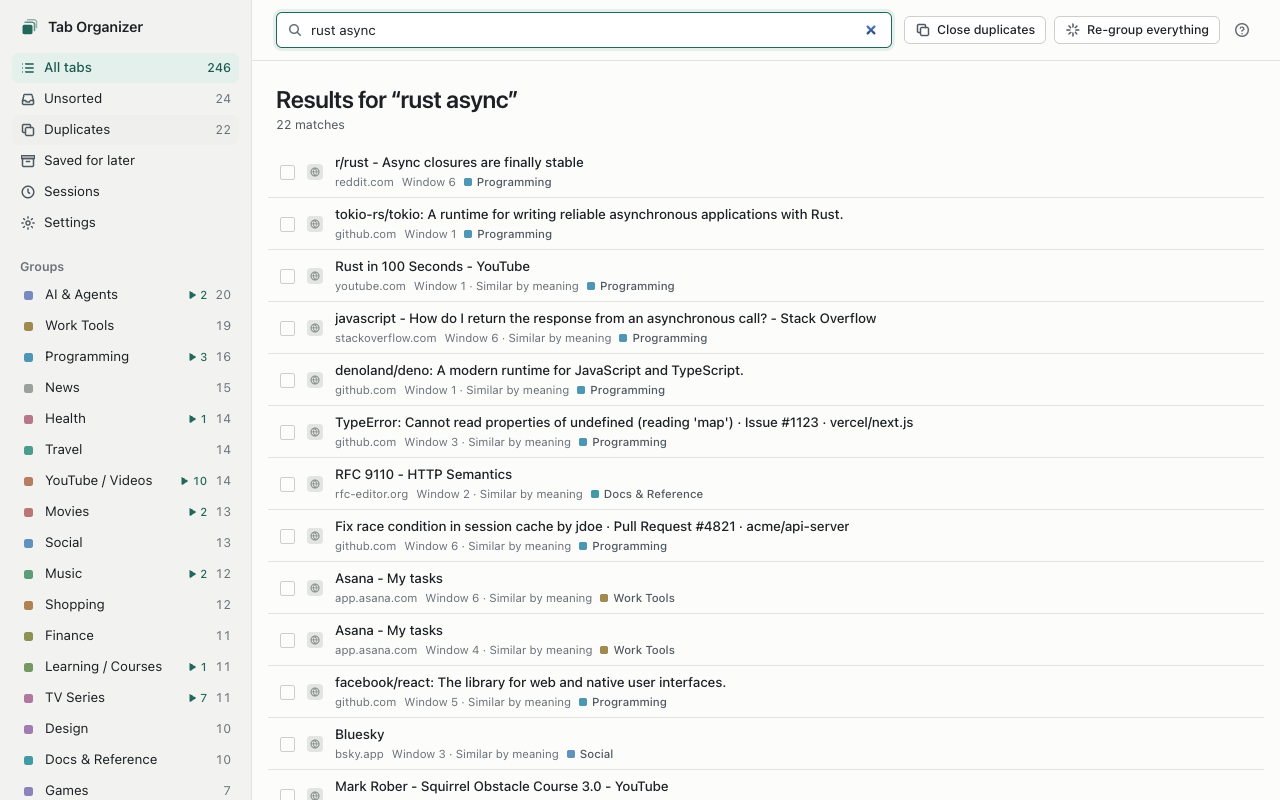
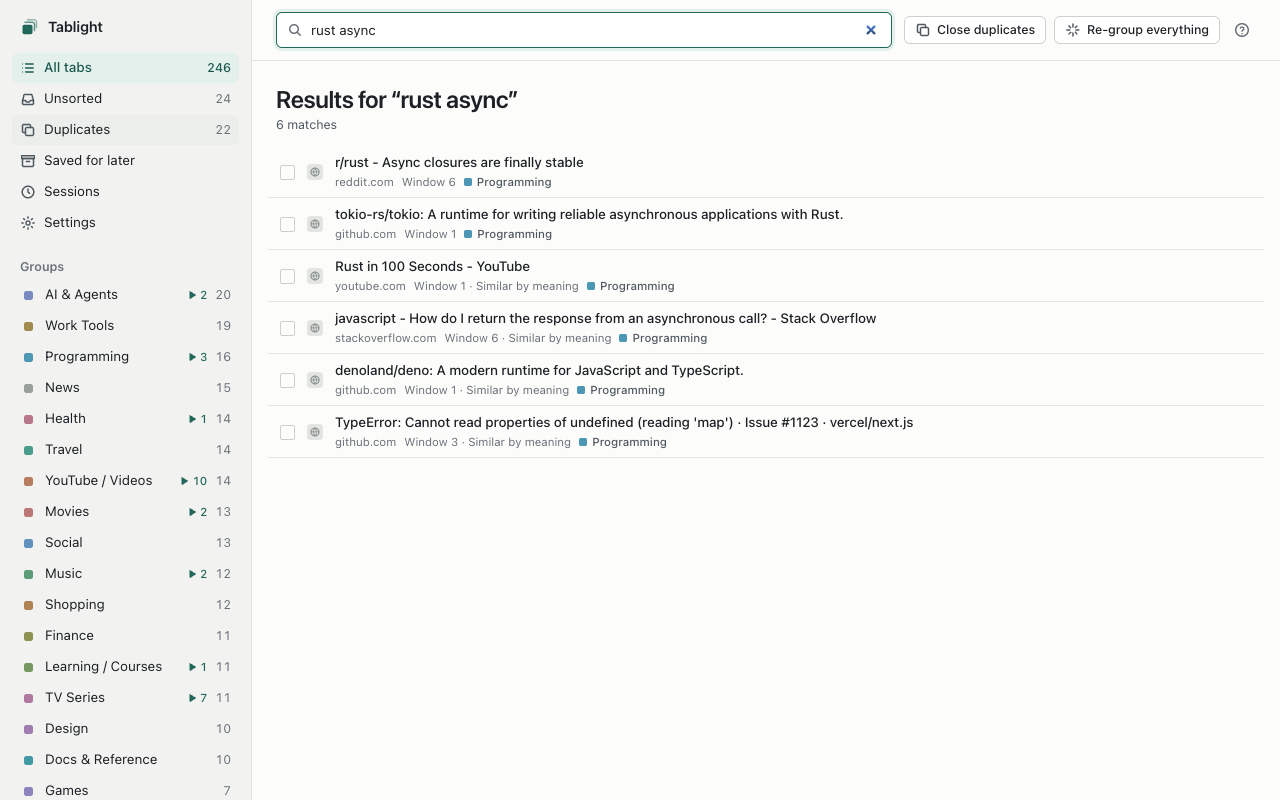
release: rename to Tablight, version 1.0.0; search cut-off per model
The extension, every screen, the tour, store text, privacy page, guide, README,
store images and file names now say Tablight (store title "Tablight: Private AI
Tab Organizer"). Internal ids stay so data and old backups keep working.
Semantic search uses a cut-off measured for the shipped model (0.55 for
bge-small); the old 0.30 let unrelated tabs through after the model switch.

diff --git a/public/privacy.html b/public/privacy.html
@@ -4,7 +4,7 @@
     <meta charset="utf-8" />
     <meta name="viewport" content="width=device-width, initial-scale=1" />
     <meta name="color-scheme" content="light dark" />
-    <title>Tab Organizer - Privacy</title>
+    <title>Tablight - Privacy</title>
     <style>
       body { max-width: 680px; margin: 0 auto; padding: 40px 16px; font: 15px/1.6 system-ui, -apple-system, 'Segoe UI', Roboto, sans-serif; }
       h1 { font-size: 24px; line-height: 1.25; }
@@ -12,8 +12,8 @@
     </style>
   </head>
   <body>
-    <h1>Tab Organizer privacy statement</h1>
-    <p>Tab Organizer is built so that your browsing stays on your device. In short: nothing leaves your device, except the optional sync of saved tabs and of the examples you teach your groups, through your own browser account.</p>
+    <h1>Tablight privacy statement</h1>
+    <p>Tablight is built so that your browsing stays on your device. In short: nothing leaves your device, except the optional sync of saved tabs and of the examples you teach your groups, through your own browser account.</p>
     <h2>No network, no analytics</h2>
     <p>The extension makes no network requests. It has no servers, no accounts, no analytics, no tracking and no ads. Site icons are read from the browser's own icon cache, never downloaded from websites.</p>
     <h2>Grouping runs on your computer</h2>
@@ -22,12 +22,12 @@
     <p>The list of your tabs (address, title, group, open, paused or saved-for-later state), your groups, saved tabs, saved sessions, settings, the on-device model's numeric summaries (embeddings) of tab titles and addresses, and a few local backup copies of your saved tabs are kept in the extension's local storage on your device. Private (incognito) windows are never recorded.</p>
     <h2>Sync of tabs saved for later (optional)</h2>
     <p>If sync is on (the default), saved tabs are synced through your browser's own extension sync storage, which is tied to your Microsoft account in Edge or your Google account in Chrome. Only the address, a short title, the group name and the date are synced, together with the record ids, timestamps and deletion markers needed to keep your devices in step.</p>
-    <p>With sync on, Tab Organizer also syncs what you taught your groups, so your other devices group tabs the way you do: for each tab you moved into a group (or in a group you accepted), the text the on-device model read for it (its title, site and a few words from its address), the group's name and when you taught it. Up to 50 examples per group, newest first, within a small share of the sync space. Each device's own copy of the model learns them; they are only applied to a group with the same name there. Other open tabs and saved sessions are never synced. You can turn sync off at any time in Settings.</p>
+    <p>With sync on, Tablight also syncs what you taught your groups, so your other devices group tabs the way you do: for each tab you moved into a group (or in a group you accepted), the text the on-device model read for it (its title, site and a few words from its address), the group's name and when you taught it. Up to 50 examples per group, newest first, within a small share of the sync space. Each device's own copy of the model learns them; they are only applied to a group with the same name there. Other open tabs and saved sessions are never synced. You can turn sync off at any time in Settings.</p>
     <h2>Deleting your data</h2>
-    <p>Settings → "Delete all data" deletes everything Tab Organizer stored on this device (the tab list, groups, saved tabs, saved sessions, settings, embeddings and local backup copies of the saved tabs) and removes the synced copy of your saved tabs from your browser account's extension sync storage. It also turns sync off on this device, so another of your devices cannot sync the saved tabs back here. It does not close any tab. Uninstalling the extension removes the data stored on this device; to be sure the synced copy is removed as well, use "Delete all data" before uninstalling. Turning sync off stops syncing but does not remove the copy already in your browser account. Another of your devices that still has Tab Organizer keeps its own saved tabs and can sync it again, so use "Delete all data" there too.</p>
+    <p>Settings → "Delete all data" deletes everything Tablight stored on this device (the tab list, groups, saved tabs, saved sessions, settings, embeddings and local backup copies of the saved tabs) and removes the synced copy of your saved tabs from your browser account's extension sync storage. It also turns sync off on this device, so another of your devices cannot sync the saved tabs back here. It does not close any tab. Uninstalling the extension removes the data stored on this device; to be sure the synced copy is removed as well, use "Delete all data" before uninstalling. Turning sync off stops syncing but does not remove the copy already in your browser account. Another of your devices that still has Tablight keeps its own saved tabs and can sync it again, so use "Delete all data" there too.</p>
     <h2>Export and import</h2>
     <p>Export saves a backup file to your computer. It contains your saved tabs, your groups and your saved sessions (the addresses and titles of the tabs in them). Import reads a backup file you choose. These files are only ever written or read locally, by you; keep them somewhere private.</p>
     <h2>Permissions</h2>
-    <p>Tab Organizer reads your tabs to list and group them; uses storage to keep its data, with unlimited local storage so large tab lists and their embeddings fit; uses alarms for auto-pause and hourly snapshots; uses an offscreen document to run the on-device model in the background; and uses the browser's icon cache for site icons. The optional "tab groups" permission is only requested if you turn on mirroring to the browser's tab groups.</p>
+    <p>Tablight reads your tabs to list and group them; uses storage to keep its data, with unlimited local storage so large tab lists and their embeddings fit; uses alarms for auto-pause and hourly snapshots; uses an offscreen document to run the on-device model in the background; and uses the browser's icon cache for site icons. The optional "tab groups" permission is only requested if you turn on mirroring to the browser's tab groups.</p>
   </body>
 </html>

diff --git a/tests/unit/ui-dashboard.test.tsx b/tests/unit/ui-dashboard.test.tsx
@@ -271,7 +271,7 @@ describe('dashboard', () => {
     serve(state({ settings: DEFAULT_SETTINGS }), (req) => (req.t === 'settings' ? { ...DEFAULT_SETTINGS, ...(req.patch as object) } : undefined));
     render(<Dashboard />);
     fireEvent.click(await screen.findByRole('button', { name: 'Take the tour' }));
-    const dialog = await screen.findByRole('dialog', { name: 'Welcome to Tab Organizer' });
+    const dialog = await screen.findByRole('dialog', { name: 'Welcome to Tablight' });
     expect(within(dialog).getByText(/1 of \d+/)).toBeTruthy();
     expect((within(dialog).getByRole('button', { name: 'Back' }) as HTMLButtonElement).disabled).toBe(true);
     expect(document.activeElement && dialog.contains(document.activeElement)).toBe(true); // focus moves into the tour
@@ -299,7 +299,7 @@ describe('dashboard', () => {
     serve(state());
     render(<Dashboard />);
     fireEvent.click(await screen.findByRole('button', { name: 'Guided tour' }));
-    await screen.findByRole('dialog', { name: 'Welcome to Tab Organizer' });
+    await screen.findByRole('dialog', { name: 'Welcome to Tablight' });
     for (let k = 0; k < 40 && !screen.queryByRole('button', { name: 'Done' }); k++) {
       fireEvent.click(screen.getByRole('button', { name: 'Next' }));
     }
@@ -355,13 +355,13 @@ describe('dashboard', () => {
     (chrome as unknown as { action: unknown }).action = { getUserSettings };
     serve(state({ settings: DEFAULT_SETTINGS }));
     render(<Dashboard />);
-    await screen.findByText(/Pin Tab Organizer/);
+    await screen.findByText(/Pin Tablight/);
     cleanup();
     getUserSettings.mockResolvedValue({ isOnToolbar: true });
     render(<Dashboard />);
     await screen.findByText(/Nothing leaves your device/);
     await new Promise((r) => setTimeout(r, 20));
-    expect(screen.queryByText(/Pin Tab Organizer/)).toBeNull();
+    expect(screen.queryByText(/Pin Tablight/)).toBeNull();
   });
 
   it('first run shows onboarding; model-not-ready shows the grouping banner; the last session card', async () => {
@@ -398,7 +398,7 @@ describe('dashboard', () => {
     fireEvent.click(await screen.findByRole('button', { name: 'Export backup' }));
     await waitFor(() => expect(click).toHaveBeenCalled());
     const a = click.mock.contexts[0] as HTMLAnchorElement;
-    expect(a.download).toMatch(/^tab-organizer-\d{4}-\d{2}-\d{2}\.json$/);
+    expect(a.download).toMatch(/^tablight-\d{4}-\d{2}-\d{2}\.json$/);
     expect(create).toHaveBeenCalledWith(expect.any(Blob));
     await waitFor(() => expect(revoke).toHaveBeenCalledWith('blob:x'));
     await screen.findByText('Backup ready');
@@ -435,7 +435,7 @@ describe('dashboard', () => {
   it('in-app privacy text names the one exception: browser-account sync of stashed tabs', async () => {
     serve(state({ settings: DEFAULT_SETTINGS }));
     render(<Dashboard />);
-    const onboarding = await screen.findByRole('region', { name: 'Welcome to Tab Organizer' });
+    const onboarding = await screen.findByRole('region', { name: 'Welcome to Tablight' });
     expect(onboarding.textContent).toMatch(/Nothing leaves your device except tabs you save for later and the examples you teach your groups/);
     act(() => {
       location.hash = '#view=settings';

diff --git a/src/ui/dashboard/Settings.tsx b/src/ui/dashboard/Settings.tsx
@@ -26,7 +26,7 @@ export async function exportBackup(): Promise<void> {
   try {
     const a = document.createElement('a');
     a.href = url;
-    a.download = `tab-organizer-${isoDate()}.json`;
+    a.download = `tablight-${isoDate()}.json`;
     document.body.append(a);
     a.click();
     a.remove();
@@ -39,7 +39,7 @@ export async function exportBackup(): Promise<void> {
 /** Reads a backup file and imports it; files over 20 MB are refused before reading. */
 export interface ImportResult { added: number; skipped: number; skippedSessions?: number }
 export async function importBackup(file: File): Promise<ImportResult> {
-  if (file.size > MAX_IMPORT_BYTES) throw new Error('That file is larger than 20 MB, so it can’t be a Tab Organizer backup.');
+  if (file.size > MAX_IMPORT_BYTES) throw new Error('That file is larger than 20 MB, so it can’t be a Tablight backup.');
   const json = await file.text();
   return send<ImportResult>({ t: 'import', json });
 }
@@ -102,7 +102,7 @@ export function Settings({ settings, syncStatus, busy, save, act, notify, onDele
             <div class="setting">
               <span class="setting-text">
                 <span class="setting-name">Guided tour</span>
-                <span class="setting-help">A short walk through every part of Tab Organizer, using your own tabs.</span>
+                <span class="setting-help">A short walk through every part of Tablight, using your own tabs.</span>
               </span>
               <button type="button" class="btn btn-sm" onClick={onTour}>Start the tour</button>
             </div>
@@ -265,7 +265,7 @@ export function Settings({ settings, syncStatus, busy, save, act, notify, onDele
             <span class="setting-text">
               <span class="setting-name">Delete all data</span>
               <span class="setting-help">
-                Deletes everything Tab Organizer stored on this device and the synced copy of your saved tabs in your
+                Deletes everything Tablight stored on this device and the synced copy of your saved tabs in your
                 browser account, and turns sync off here. Open tabs stay open. Uninstalling also removes the data on
                 this device.
               </span>

diff --git a/src/ui/dashboard/Tour.tsx b/src/ui/dashboard/Tour.tsx
@@ -12,7 +12,7 @@ export interface TourStep {
 /** The guided tour, in the order a new user meets things. Plain words, one idea per step. */
 export const TOUR_STEPS: TourStep[] = [
   {
-    title: 'Welcome to Tab Organizer',
+    title: 'Welcome to Tablight',
     body: (
       <>
         <p>This short tour shows you around, using your own tabs.</p>
@@ -55,7 +55,7 @@ export const TOUR_STEPS: TourStep[] = [
     body: (
       <>
         <p>Drag a tab onto a group to move it there. Select several with their checkboxes to move them together.</p>
-        <p>Tab Organizer learns from this: similar tabs go to that group next time, on your other devices too when sync is on.</p>
+        <p>Tablight learns from this: similar tabs go to that group next time, on your other devices too when sync is on.</p>
       </>
     ),
   },
@@ -87,7 +87,7 @@ export const TOUR_STEPS: TourStep[] = [
   {
     target: '[data-tour="sessions"]',
     title: 'Pick up where you left off',
-    body: <p>Every hour Tab Organizer remembers your windows. After a restart, or the next morning, open them all again or save them for later.</p>,
+    body: <p>Every hour Tablight remembers your windows. After a restart, or the next morning, open them all again or save them for later.</p>,
   },
   {
     title: 'Popup and side panel',
@@ -96,7 +96,7 @@ export const TOUR_STEPS: TourStep[] = [
         <p><strong>Toolbar icon</strong>: a quick popup with search and your top groups.</p>
         <p><strong>Side panel</strong> (<kbd>Alt</kbd>+<kbd>Shift</kbd>+<kbd>S</kbd>): stays open next to your pages, showing this window’s tabs and your groups.</p>
         <p><strong>This dashboard</strong>: <kbd>Alt</kbd>+<kbd>Shift</kbd>+<kbd>T</kbd>.</p>
-        <p>Tip: pin Tab Organizer with the puzzle-piece icon in your browser’s toolbar, so it’s always one click away.</p>
+        <p>Tip: pin Tablight with the puzzle-piece icon in your browser’s toolbar, so it’s always one click away.</p>
       </>
     ),
   },

diff --git a/manifest.config.ts b/manifest.config.ts
@@ -5,7 +5,8 @@ export const CSP =
   "script-src 'self' 'wasm-unsafe-eval'; object-src 'none'; connect-src 'self'; img-src 'self' data:; base-uri 'none'; form-action 'none'; frame-ancestors 'none'";
 export const manifest = {
   manifest_version: 3,
-  name: 'Tab Organizer',
+  name: 'Tablight: Private AI Tab Organizer',
+  short_name: 'Tablight',
   version: VERSION,
   description: 'Groups your tabs by topic with an AI model that runs on your device. No servers, no tracking.',
   minimum_chrome_version: '120',
@@ -15,7 +16,7 @@ export const manifest = {
   background: { service_worker: 'background.js', type: 'module' },
   action: {
     default_popup: 'popup.html',
-    default_title: 'Tab Organizer',
+    default_title: 'Tablight',
     default_icon: { '16': 'icons/16.png', '32': 'icons/32.png' },
   },
   side_panel: { default_path: 'sidepanel.html' },
@@ -28,11 +29,11 @@ export const manifest = {
   commands: {
     'open-dashboard': {
       suggested_key: { default: 'Alt+Shift+T' },
-      description: 'Open the Tab Organizer dashboard',
+      description: 'Open the Tablight dashboard',
     },
     'open-side-panel': {
       suggested_key: { default: 'Alt+Shift+S' },
-      description: 'Open Tab Organizer in the side panel',
+      description: 'Open Tablight in the side panel',
     },
   },
   content_security_policy: { extension_pages: CSP },

diff --git a/src/ui/dashboard/Onboarding.tsx b/src/ui/dashboard/Onboarding.tsx
@@ -16,14 +16,14 @@ export function Onboarding(props: { busy: boolean; onAutoSleep: () => void; onDo
     <section class="card onboarding" aria-labelledby="onboarding-h">
       <LogoMark size={28} />
       <div class="card-text">
-        <h2 id="onboarding-h" class="card-title">Welcome to Tab Organizer</h2>
+        <h2 id="onboarding-h" class="card-title">Welcome to Tablight</h2>
         <ul class="onboarding-points">
           <li>Grouping runs on your computer, using only each tab’s title and address. No servers, no analytics.</li>
           <li>Nothing leaves your device except tabs you save for later and the examples you teach your groups, which sync through your own browser account. You can turn that off in Settings.</li>
           {unpinned && (
             <li>
-              <strong>Pin Tab Organizer</strong> so it’s one click away: click the puzzle-piece icon in the toolbar, then
-              the pin next to Tab Organizer.
+              <strong>Pin Tablight</strong> so it’s one click away: click the puzzle-piece icon in the toolbar, then
+              the pin next to Tablight.
             </li>
           )}
         </ul>

diff --git a/src/background/index.ts b/src/background/index.ts
@@ -13,7 +13,8 @@ import { handle } from '../shared/rpc';
 import { deleteAllData } from './reset';
 import { openDashboard } from '../shared/nav';
 import { isClutterTab } from '../shared/url';
-import { semanticSearch, wordSearch } from '../search/search';
+import { semanticMinFor, semanticSearch, wordSearch } from '../search/search';
+import { HEAD } from '../classify/head';
 import type { ChangedMessage, DashboardState, GroupSummary, Item, Settings, Snapshot } from '../shared/types';
 import { applyImport, exportJson, parseImport } from '../io/import-export';
 import {
@@ -169,7 +170,7 @@ async function search(db: Db, req: Extract<Req, { t: 'search' }>): Promise<{ wor
       return vec ? [{ item, vec }] : [];
     });
     if (ticket !== searchTicket) return { words, meaning: [], superseded: true };
-    return { words, meaning: semanticSearch(qVec, withVec) };
+    return { words, meaning: semanticSearch(qVec, withVec, 20, semanticMinFor(HEAD.model)) };
   } catch (e) {
     console.error('semantic search failed', e);
     return { words, meaning: [] };

diff --git a/src/ui/popup/Popup.tsx b/src/ui/popup/Popup.tsx
@@ -110,7 +110,7 @@ export function Popup() {
       <header class="popup-head">
         <div class="brand">
           <LogoMark />
-          <span class="brand-name">Tab Organizer</span>
+          <span class="brand-name">Tablight</span>
         </div>
         {state && !state.modelReady && (
           <span class="status-pill" title="The on-device model is grouping your tabs">
@@ -195,7 +195,7 @@ export function Popup() {
             <GridIcon />Open dashboard
           </button>
           {hasPanel && (
-            <button type="button" class="btn" disabled={windowId === null} onClick={openPanel} title="Keep Tab Organizer open beside your pages (Alt+Shift+S)">
+            <button type="button" class="btn" disabled={windowId === null} onClick={openPanel} title="Keep Tablight open beside your pages (Alt+Shift+S)">
               <PanelIcon />Side panel
             </button>
           )}

diff --git a/src/search/search.ts b/src/search/search.ts
@@ -80,6 +80,18 @@ export function wordSearch(items: Item[], groups: Group[], q: string, limit = 50
   return hits.slice(0, limit).map((h) => h.item);
 }
 /** Items by cosine similarity to the query vector, best first, dropping anything below `min`. */
+/**
+ * Lowest cosine counted as "similar by meaning", per embedding model: each model has its own similarity scale.
+ * Measured on the training pool with sample queries: for bge-small, 99% of unrelated tabs score below 0.55
+ * while real matches mostly score 0.55–0.82; for MiniLM the same split sat near 0.30.
+ */
+const SEMANTIC_MIN: Record<string, number> = {
+  'Xenova/all-MiniLM-L6-v2': 0.3,
+  'Xenova/bge-small-en-v1.5': 0.55,
+};
+export function semanticMinFor(model: string): number {
+  return SEMANTIC_MIN[model] ?? 0.5;
+}
 export function semanticSearch(
   qVec: ArrayLike<number>,
   items: { item: Item; vec: ArrayLike<number> }[],

diff --git a/tests/unit/search.test.ts b/tests/unit/search.test.ts
@@ -76,3 +76,14 @@ describe('semanticSearch', () => {
     expect(semanticSearch([1, 0], vs, 2)).toHaveLength(2);
   });
 });
+describe('semanticMinFor', () => {
+  it('uses the cut-off measured for each bundled model, and a strict default for unknown ones', async () => {
+    const { semanticMinFor } = await import('../../src/search/search');
+    const { HEAD } = await import('../../src/classify/head');
+    expect(semanticMinFor('Xenova/bge-small-en-v1.5')).toBe(0.55);
+    expect(semanticMinFor('Xenova/all-MiniLM-L6-v2')).toBe(0.3);
+    expect(semanticMinFor('some/other-model')).toBe(0.5);
+    // The shipped model has a measured cut-off (not the fallback).
+    expect(['Xenova/bge-small-en-v1.5', 'Xenova/all-MiniLM-L6-v2']).toContain(HEAD.model);
+  });
+});

diff --git a/src/ui/mock/preview/index.html b/src/ui/mock/preview/index.html
@@ -3,10 +3,10 @@
   <head>
     <meta charset="utf-8" />
     <meta name="viewport" content="width=device-width, initial-scale=1" />
-    <title>Tab Organizer UI preview</title>
+    <title>Tablight UI preview</title>
   </head>
   <body style="font-family: system-ui, sans-serif; margin: 2rem">
-    <h1>Tab Organizer UI preview</h1>
+    <h1>Tablight UI preview</h1>
     <p>Mocked browser, real background code, fake embeddings. Reload to reset the data.</p>
     <ul>
       <li><a href="/popup.html">Popup (380x560)</a></li>

diff --git a/tests/e2e/extension.spec.ts b/tests/e2e/extension.spec.ts
@@ -287,7 +287,7 @@ test('flows: groups, duplicates, stash/open, sleep, search, export → import', 
   ]);
   const backup = join(tempDir(), download.suggestedFilename());
   await download.saveAs(backup);
-  expect(download.suggestedFilename()).toMatch(/^tab-organizer-\d{4}-\d{2}-\d{2}\.json$/);
+  expect(download.suggestedFilename()).toMatch(/^tablight-\d{4}-\d{2}-\d{2}\.json$/);
   const exported = readFileSync(backup, 'utf8');
   for (const url of stillStashed) expect(exported).toContain(url);
 
